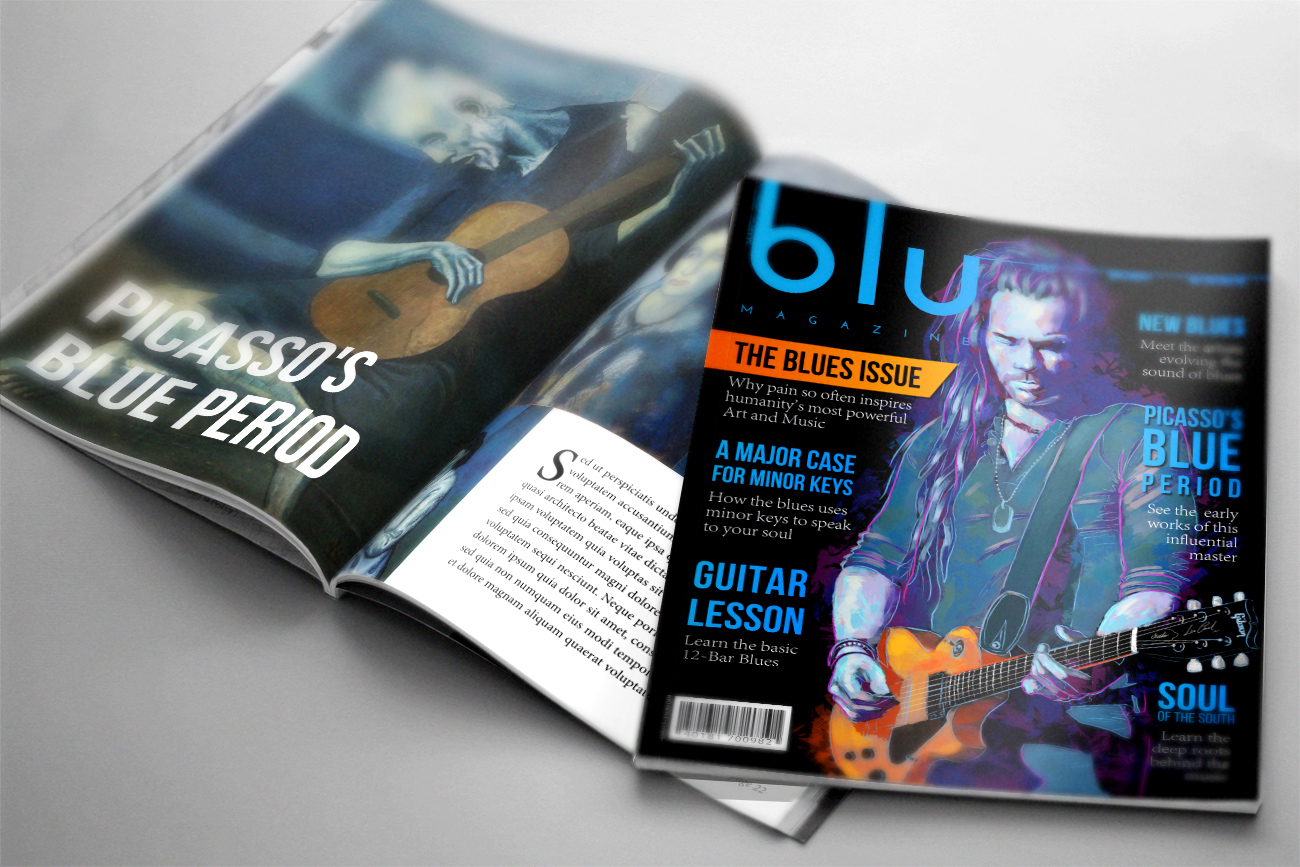
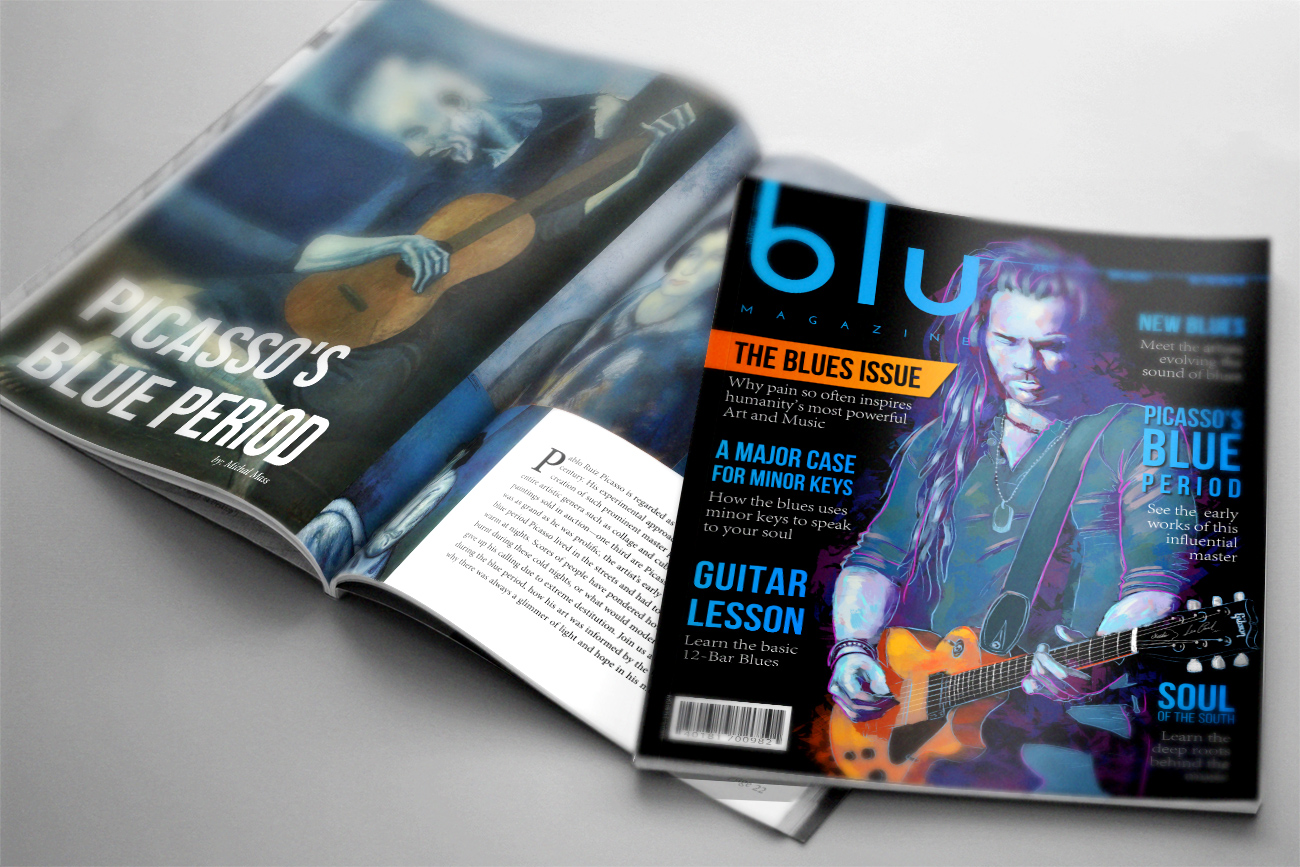
Overall design section restructuring

Changed region(s): [[0.0, 0.0623, 0.5846, 0.6851], [0.3385, 0.5294, 0.5231, 0.8097]]

diff --git a/blumag.html b/blumag.html
@@ -77,29 +77,27 @@
               <p><b>Project:</b> Blu Magazine <br> <b>Role:</b> Graphic Design, Illustration <br> <b>Tools</b>: Pencil & Paper, Procreate, Photoshop, Affinity Designer</p>
 
               <div class="row">
-                <img src="images/matt_images/Design/bluMain4.jpg" class= "center" alt="Blu Magazine Mockup" width="auto">
+                <img src="images/matt_images/Design/bluMain.jpg" class= "center" alt="Blu Magazine Mockup" width="auto">
               </div>
 
               <div class="row">
                 <p>Blu Magazine is a self-guided project intended to showcase my current skillset as a graphic artist and designer. Its aim is to demonstrate solid branding, typography, layout, color theory, illustration, and photo manipulation techniques within a cohesive design. "Blu" is a monthly publication that explores anything and everything related to the color blue.</p>
 							</div>
 
-
-
               <div class="row">
 								<img src="images/matt_images/Design/bluFonts.jpg" class= "center" alt="Blu Magazine Font Exploration" width="auto">
 							</div>
 
-                <br><p>The target audience for this publication was young men and women between the ages of 25-35. It was important that the font chosen for the logotype reflected the clean modern feel I had in mind for the magazine's branding. In this case, I decided on the sans-serif "Aqua Grotesque" for its crisp and elegant rounded forms.</p><br>
+                <br><p>The target audience for this publication was young men and women between the ages of 25-35. It was important that the font chosen for the logotype reflected the clean modern feel I had in mind for the magazine's branding. In this case, I decided on the sans-serif "Aqua Grotesque" for its crisp and elegant rounded forms.</p>
 
               <div class="row">
   							<img src="images/matt_images/Design/bluLogoLines.png" class= "center" alt="Blu Magazine Logotype Exploration" width="auto">
   						</div>
 
-              <br><p>After some experimentation with the logotype and its placement, I decided to run the edges of the letterforms off of the page. This opens up the composition and keeps the cover designs from feeling too boxed in.</p>
+              <br><p>After some experimentation with the logotype and its placement, I ultimately chose to go with a clean, bold treatment that is easily recognizable and doesn't overly compete with the cover imagery. I decided to run the edges of the letterforms off of the page. This opens up the composition and keeps the cover designs from feeling too boxed in.</p>
 
               <div class="row">
-								<img src="images/matt_images/Design/bluBrainstorm.jpg" class= "center" alt="Blu Magazine Topic Exploration" width="auto">
+								<img src="images/matt_images/Design/bluBrainstorm2.jpg" class= "center" alt="Blu Magazine Topic Exploration" width="auto">
 							</div>
 
                 <br><p>Early in the design process I sketched out a map of associations that came to mind when thinking of the project's core concept. Brainstorming in this way helps to get the creative juices flowing and spark new ideas in a rapid manner. Through this excersize, I came up with the three core themes for each issue.</p><br>
@@ -108,35 +106,42 @@
 								<img src="images/matt_images/Design/bluMagScreenMockup3.jpg" class= "center" alt="Blu Magazine Cover Iterations" width="auto">
 							</div>
 
-                <br><p>Many versions were created for each cover and spread design. One of the greatest tools in any designer's arsenal is the power of iteration.</p>
+                <br><p>Many versions were created for each cover and spread design. One of the greatest tools in any designer's arsenal is the power of iteration. While each cover design is unique and related to that month's particular theme, there are certain design elements that remain consistent across each to establish a cohesive brand. For example, each issue's theme tab, the logotype placement, and the article headline font to name a few.</p>
 
-                <div class="row">
-  								<div class="4u 12u$(mobile)">
-  									<article class="item" title="Music Issue">
-  										<a href="./blumusic.html" class="image fit">
-                        <img src="images/matt_images/Design/bluMusicCoverSm.jpg" alt="" /></a>
-  									</article>
-
-  								</div>
-  								<div class="4u 12u$(mobile)">
-  									<article class="item" title="Psychology Issue">
-  										<a href="./bluPsych.html" class="image fit">
-                        <img src="images/matt_images/Design/bluPsychCoverSm.jpg" alt="" /></a>
-  									</article>
-
-  								</div>
-  								<div class="4u$ 12u$(mobile)">
-                    <article class="item" title="Ocean Issue">
-                      <a href="./bluocean.html" class="image fit">
-                        <img src="images/matt_images/Design/bluOceanCoverSm.jpg" alt=""/></a>
-                    </article>
-
-  								</div>
-  							</div>
-                <br><p>Explore the covers above to see an expanded case study of each issue.</p>
 						</div>
 
 					</section>
+
+          <section id="portfolio" class="two">
+						<div class="container">
+              <div class="row">
+                <div class="4u 12u$(mobile)">
+                  <article class="item" title="Music Issue">
+                    <a href="./blumusic.html" class="image fit">
+                      <img src="images/matt_images/Design/bluMusicCoverSm.jpg" alt="" /></a>
+                  </article>
+                </div>
+
+                <div class="4u 12u$(mobile)">
+                  <article class="item" title="Psychology Issue">
+                    <a href="./bluPsych.html" class="image fit">
+                      <img src="images/matt_images/Design/bluPsychCoverSm.jpg" alt="" /></a>
+                  </article>
+                </div>
+
+                <div class="4u$ 12u$(mobile)">
+                  <article class="item" title="Ocean Issue">
+                    <a href="./bluocean.html" class="image fit">
+                      <img src="images/matt_images/Design/bluOceanCoverSm.jpg" alt=""/></a>
+                  </article>
+                </div>
+              </div>
+
+              <br><p>Explore the covers above to see an expanded case study of each issue.</p>
+
+            </div>
+
+          </section>
 
 
 

diff --git a/tankwallet.html b/tankwallet.html
@@ -74,14 +74,14 @@
 									<br/><br/>
 							</div>
 
-              <p><b>Client:</b> TankWallet - Palo Alto, CA <br> <b>Project:</b> Price Cap Plan Marketing Materials <br>Role: Sales, Marketing, Graphic Design, Animation/Motion Graphics, Illustration <br> <b>Tools</b>: Pencil & Paper, Photoshop, Illustrator, After Effects</p>
+              <p><b>Client:</b> TankWallet - Palo Alto, CA <br> <b>Project:</b> Price Cap Plan Marketing Materials <br>Role: Graphic Design, Animation/Motion Graphics, Illustration <br> <b>Tools</b>: Pencil & Paper, Photoshop, Illustrator, After Effects</p>
 
 							<div class="row">
-							<img src="images/matt_images/Design/tankWalletApp.png" class= "center" alt="TankWallet App" width="auto">
+								<img src="images/matt_images/Design/tankWalletApp.png" class= "center" alt="TankWallet App" width="auto">
 							</div>
 
 							<div class="row">
-								<p>Tankwallet is a tech company in Palo Alto, CA that provides fuel cost saving solutions to both large scale companies and indivdual consumers. I was responsible for graphic design and animation materials created to educate consumers on the company's various products.</p>
+								<p>Tankwallet is a tech company in Palo Alto, CA that provides fuel cost saving solutions to both large scale companies and indivdual consumers. I was responsible for graphic design and animated marketing materials created to educate consumers on the company's various products.</p>
 							</div>
 
               <div>
@@ -109,16 +109,16 @@
               </div>
 
 							<div>
-							<img src="images/matt_images/Design/emmaAndChuckOutline.jpg" class= "center" alt="Chuck and Emma Vector Builds" width="auto">
-              	<p>Building up the characters from concept sketches to vector assets for the animation.</p>
+							<img src="images/matt_images/Design/emmaAndChuckOutline2.jpg" class= "center" alt="Chuck and Emma Vector Builds" width="auto">
+              	<br><p>Each animation involves a process of concept sketching, storyboarding, scripting, voice acting, vector creation, and animating. Here we see a split view of the characters being built as vector assets to be animated in After Effects.</p>
 							</div>
 
               <div>
               <img src="images/matt_images/Design/chuckSketches.png" class= "center" alt="Early Character Sketches" width="auto">
-              	<p>Early sketches for "Chuck" our iconic jolly truck driver. We wanted Chuck to be an approachable and friendly character so we decided to go with a less realistic and more cartoony look.</p>
+              	<p>Early sketches for "Chuck" our iconic jolly truck driver. We wanted Chuck to be an approachable and friendly character so we decided to go with a less realistic and more cartoony visual style.</p>
 
               <img src="images/matt_images/Design/priceCapSB.png" class= "center" alt="Early Storyboard" width="auto">
-              	<p>Early Storyboard for the "Price Cap Plan" explanation video.</p>
+              	<p>Early Storyboards for the "Price Cap Plan" explanation video.</p>
 
               <img src="images/matt_images/Design/priceCapAssets.jpg" class= "center" alt="Vector Assets" width="auto">
               	<p>A small sample of the vector assets made during the creation of the animations.</p>
@@ -127,11 +127,11 @@
                 <p>In addition to the animations, I also created digital marketing materials for the company's products. Below are a few examples created to be sent as emails to prospective clients demonstrating how TankWallet's Price Cap Plans performs over time using data obtained from the U.S. Department of Energy.</p>
 
 							<div class="row">
-							<img src="images/matt_images/Design/priceCap4x4.png" class= "center" alt="Price Cap Performance Marketing Materials" width="auto">
+								<img src="images/matt_images/Design/priceCap4x4.png" class= "center" alt="Price Cap Performance Marketing Materials" width="auto">
 							</div>
 
 							<div class="row">
-								<p>My time at TankWallet was an incredibly challenging and rewarding experience. Working in the fast-paced environment of a startup provided many challenging opportunies to adapt and grow as an artist and designer. During my time there I was able to write, storyboard, illustrate, animate, and edit several videos for the company.</p>
+								<p>My time at TankWallet proved to be a challenging and rewarding experience. Working in the fast-paced environment of a tech startup provided many opportunies to adapt and grow as both an artist and as a designer. Collaborating with the team of software engineers and product designers, I was able to write, storyboard, illustrate, and animate several videos for the team that helped to better explain the company's products to prospective clients.</p>
 							</div>
 
 						</div>

diff --git a/bluPsych.html b/bluPsych.html
@@ -83,53 +83,57 @@
               <br><p>The theme for this month's issue of Blu was "the psychology of color."</p>
 
               <div class="row">
-              <img src="images/matt_images/Design/MagazineMockupBluColor.jpg" class= "center" alt="Blu Magazine Colour Mockup" width="auto">
+                <img src="images/matt_images/Design/MagazineMockupBluColor.jpg" class= "center" alt="Blu Magazine Colour Mockup" width="auto">
               </div>
 
-                <br><p>In keeping with the theme of this issue, I wanted its cover to be an absolute explosion of color. I incorporated photography and vector assets into a cohesive design while experimenting with color harmony and abstract shapes as a way to reflect the intuitive feelings that colors invoke within us.</p>
+                <br><p>In keeping with the theme of this issue, I wanted its cover to be an absolute explosion of color. I incorporated photography and vector assets into a cohesive design while experimenting with color harmony and abstract shapes as a way to reflect the intuitive feelings that colors invoke within us. I also added the circular "special" sticker as a device to grab potential buyers' attention as well as to introduce more variety to the overall design.</p>
 
 							<div class="row">
-								<img src="images/matt_images/Design/bluColourSpread1.png" class= "center" alt="Blu Magazine Colour Spread 1" width="auto">
+								<img src="images/matt_images/Design/bluColourSpread_1.jpg" class= "center" alt="Blu Magazine Colour Spread 1" width="auto">
 							</div>
 
               <br><p>The article on this two-page layout is about how the power of color can transform and heal us. I decided to employ photo manipulation techniques to illustrate this concept by breaking appart a desaturated portrait of a man with little to no emotional expression on his face to reveal the vibrant colors hidden within.</p>
 
 							<div class="row">
-								<img src="images/matt_images/Design/bluColourSpread2.png" class= "center" alt="Blu Magazine Colour Spread 2" width="auto">
+								<img src="images/matt_images/Design/bluWinter.jpg" class= "center" alt="Blu Magazine Colour Spread 2" width="auto">
 							</div>
 
+              <br><p></p>
 
+						</div>
+
+					</section>
+
+          <section id="portfolio" class="two">
+						<div class="container">
               <div class="row">
                 <div class="4u 12u$(mobile)">
                   <article class="item" title="Music Issue">
                     <a href="./blumusic.html" class="image fit">
                       <img src="images/matt_images/Design/bluMusicCoverSm.jpg" alt="" /></a>
                   </article>
-
                 </div>
+
                 <div class="4u 12u$(mobile)">
                   <article class="item" title="Psychology Issue">
                     <a href="./bluPsych.html" class="image fit">
                       <img src="images/matt_images/Design/bluPsychCoverSm.jpg" alt="" /></a>
                   </article>
-
                 </div>
+
                 <div class="4u$ 12u$(mobile)">
                   <article class="item" title="Ocean Issue">
                     <a href="./bluocean.html" class="image fit">
                       <img src="images/matt_images/Design/bluOceanCoverSm.jpg" alt=""/></a>
                   </article>
-
                 </div>
               </div>
 
               <br><p>Explore the covers above to see an expanded case study of each issue.</p>
 
-						</div>
+            </div>
 
-					</section>
-
-
+          </section>
 
 
 	<!-- .modal-profile -->

diff --git a/bluocean.html b/bluocean.html
@@ -86,7 +86,7 @@
               <img src="images/matt_images/Design/bluOceanSpread.jpg" class= "center" alt="Blu Magazine Ocean Mockup" width="auto">
               </div>
 
-              <br><p>Since one of the main articles of this issue is about deep sea exploration, I wanted to create the feeling of wonder and awe that you get from novels like 20,000 Leagues Under the Sea, by Jules Verne. The shape of a deep sea diver was done in vectors to use as a mask for a closeup photo of a jellyfish, while the background is a zoomed in view of the tentacles of an octopus. </p>
+              <br><p>With this cover I aimed to create the feeling of wonder and awe that you get from films and books about deep sea exploration. I wanted to emphasize the difference in scale between the figure in the foreground and the mysterious creature in the dark. The shape of the diver was done in vectors to use as a mask for a closeup photo of a jellyfish, while the background is an enlarged photo of an octopus. I used a soft yellow gradient in the center and a dark vignette around the edges of the composition to create the illusion of light. The feeling of light eminating from the diver's flashlight is further reinforced with a gradient effect applied to the surrounding article headlines.</p>
 
               <div class="row">
 								<img src="images/matt_images/Design/bluOceanSpread2.png" class= "center" alt="Blu Magazine Ocean Spread 1" width="auto">
@@ -98,38 +98,42 @@
 								<img src="images/matt_images/Design/bluOceanSpread1.png" class= "center" alt="Blu Magazine Ocean Spread 1" width="auto">
 							</div>
 
-              <br><p>For this layout I wanted to emphasize the scope and severity of the problem discussed in the article by incorporating a large photograph of plastic waste on the shore spanning the entire layout.</p><br>
+              <br><p>For this layout I wanted to emphasize the scope and severity of the problem discussed in the article by incorporating a large photograph of plastic waste on the shore spanning the entire layout.</p>
 
+						</div>
+
+					</section>
+
+          <section id="portfolio" class="two">
+						<div class="container">
               <div class="row">
                 <div class="4u 12u$(mobile)">
                   <article class="item" title="Music Issue">
                     <a href="./blumusic.html" class="image fit">
                       <img src="images/matt_images/Design/bluMusicCoverSm.jpg" alt="" /></a>
                   </article>
-
                 </div>
+
                 <div class="4u 12u$(mobile)">
                   <article class="item" title="Psychology Issue">
                     <a href="./bluPsych.html" class="image fit">
                       <img src="images/matt_images/Design/bluPsychCoverSm.jpg" alt="" /></a>
                   </article>
-
                 </div>
+
                 <div class="4u$ 12u$(mobile)">
                   <article class="item" title="Ocean Issue">
                     <a href="./bluocean.html" class="image fit">
                       <img src="images/matt_images/Design/bluOceanCoverSm.jpg" alt=""/></a>
                   </article>
-
                 </div>
               </div>
 
-              <br><p>Explore the covers below to see an expanded case study of each issue.</p>
+              <br><p>Explore the covers above to see an expanded case study of each issue.</p>
 
-						</div>
+            </div>
 
-					</section>
-
+          </section>
 
 
 

diff --git a/blumusic.html b/blumusic.html
@@ -95,48 +95,54 @@
               <br><p>Cover illusrtation painted digitally with Procreate on an iPad Pro. The brushstrokes were left intentionally loose and expressive for a "painterly" feel.</p>
 
 							<div class="row">
-								<img src="images/matt_images/Design/bluMusicSpread1.png" class= "center" alt="Blu Magazine Music Spread 1" width="auto">
+								<img src="images/matt_images/Design/bluPicassoSpread.jpg" class= "center" alt="Blu Magazine Music Spread 1" width="auto">
 							</div>
 
-
+              <br><p>For this spread design, the emphasis is placed on Picasso's paintings. I decided to do a photo collage of his work that stretches across both pages in combination with a bold typeface to draw the reader's attention to the story.</p>
 
 							<div class="row">
 								<img src="images/matt_images/Design/bluMusicSpread3.png" class= "center" alt="Blu Magazine Music Spread 3" width="auto">
 							</div>
 
-              <p>The visual problems presented by the blu magazine project required a diverse range of design solutions including illustration, photo manipulation, grid-based layout design and typography. One of the key lessons learned in the process of working on this project was the importance of establishing visual heirarchies through the use of contrast and scale to inform your typographic layouts, especially in editorial design. Explore the other issues below to see more!</p><br>
+              <p>This design utilizes a three column text layout, commonly seen in editorial interviews.</p>
 
+              <p>The visual problems presented by the blu magazine project required a diverse range of design solutions including illustration, photo manipulation, grid-based layout design and typography. One of the key lessons learned in the process of working on this project was the importance of establishing visual heirarchies through the use of contrast and scale to inform your typographic layouts, especially in editorial design. Explore the other issues below to see more!</p>
+
+            </div>
+
+					</section>
+
+
+          <section id="portfolio" class="two">
+						<div class="container">
               <div class="row">
                 <div class="4u 12u$(mobile)">
                   <article class="item" title="Music Issue">
                     <a href="./blumusic.html" class="image fit">
                       <img src="images/matt_images/Design/bluMusicCoverSm.jpg" alt="" /></a>
                   </article>
-
                 </div>
+
                 <div class="4u 12u$(mobile)">
                   <article class="item" title="Psychology Issue">
                     <a href="./bluPsych.html" class="image fit">
                       <img src="images/matt_images/Design/bluPsychCoverSm.jpg" alt="" /></a>
                   </article>
-
                 </div>
+
                 <div class="4u$ 12u$(mobile)">
                   <article class="item" title="Ocean Issue">
                     <a href="./bluocean.html" class="image fit">
                       <img src="images/matt_images/Design/bluOceanCoverSm.jpg" alt=""/></a>
                   </article>
-
                 </div>
               </div>
 
               <br><p>Explore the covers above to see an expanded case study of each issue.</p>
 
-						</div>
+            </div>
 
-					</section>
-
-
+          </section>
 
 
 	<!-- .modal-profile -->

diff --git a/argubotacademy.html b/argubotacademy.html
@@ -80,7 +80,7 @@
                 <img src="images/matt_images/Design/argubotMockup2.jpg" class= "center" alt="Robot Workshop Vector Art" width="auto">
               </div>
 
-								<br><p>Mars Generation One: Argubot Academy is a tablet-based educational game targeted at middle-school aged kids developed by Glasslab Games. In the game, players build and fight robots (known as argubots) against other robot opponents. Players are taught to equip their argubots with logical, well-reasoned arguments to use as "attacks" in a battle of wits with their opponents. I worked as an environment designer on the project. I was responsible for delivering several backgrounds and secondary robot designs set on a sci-fi base established on Mars.</p>
+								<br><p>Mars Generation One: Argubot Academy is a tablet-based educational game targeted at middle-school aged kids developed by Glasslab Games. In the game, players build and fight robots (known as argubots) against other robot opponents. Players are taught to equip their argubots with logical, well-reasoned arguments to use as "attacks" in a battle of wits with their opponents. I worked as an environment artist on the project. I was responsible for delivering several backgrounds and secondary robot designs set on a sci-fi base established on Mars.</p>
 
 							<div class="row">
                 <img src="images/matt_images/Design/argubotSketches.png" class= "center" alt="Argubot Concept Sketches" width="auto">
@@ -106,11 +106,17 @@
 
                 <p>Final "Atrium" envirnoment.</p>
 
+							<div class="row">
+	              <img src="images/matt_images/Design/atriumOutline.png" class= "center" alt="Atrium Vector Art" width="auto">
+	            </div>
+
+							<p>The final environment art is made up of thousands of individual vector shapes.</p>
+
               <div class="row">
                 <img src="images/matt_images/Design/env_kitchen_MBK_final.jpg" class= "center" alt="Kitchen Vector Art" width="auto">
               </div>
 
-              <br><p>Here we see the kitchen environment with it's many robot helpers taking care of the day-to-day operations of the base such as food growing, harvesting, preparation, and general cleaning. I designed these secondary kitchen bots to fit into the established visual style of the project. The common element between them being thier camera lens like eye. I chose soft rounded forms for the bodies to empasize their friendly and approachable personalities.</p>
+              <br><p>Here we see the kitchen environment with it's many robot helpers taking care of the day-to-day operations of the base such as food growing, harvesting, preparation, and general cleaning. I designed these secondary kitchen bots to fit into the established visual style of the project. I chose soft rounded forms for the bodies to empasize their friendly and approachable personalities.</p>
 
               <div class="row">
                 <img src="images/matt_images/Design/env_workshop_MBK_final.jpg" class= "center" alt="Robot Workshop Vector Art" width="auto">

diff --git a/about.html b/about.html
@@ -69,7 +69,7 @@
 							</div>
               <br/>
 							<span><h2 style="color:SkyBlue;">Hi, I'm Matt.</h2>
-							<b style="color:SkyBlue;">Nice to meet you!</b> <br><br>I'm a multi-disciplinary artist, snowboarder, bibliophile, animation lover and proud pixelpusher. Working in the sweet spot between function and elegance to save the world from bad design. I'm fueled by craft beer, hip-hop and tortilla chips.<br><br>I attended the University of North Carolina at Asheville, where I received my Bachelor of Arts in Multimedia Arts and Sciences. I’ve always been fascinated with the creative process, in whatever form it takes; my work spans across Traditional and Digital Illustration, Animation, Graphic Design, Woodworking, and Pyrography<br/><br/>
+							<b style="color:SkyBlue;">Nice to meet you!</b> <br><br>I'm a multi-disciplinary artist, snowboarder, bibliophile, animation lover and proud pixelpusher. Working in the sweet spot between elegance and function to save the world from bad design. I'm fueled by craft beer, hip-hop and tortilla chips.<br><br>I attended the University of North Carolina at Asheville, where I received my Bachelor of Arts in Multimedia Arts and Sciences. I’ve always been fascinated with the creative process, in whatever form it takes; my work spans across Traditional and Digital Illustration, Animation, Graphic Design, Woodworking, and Pyrography<br/><br/>
 
 							Proficient in Adobe Photoshop, Illustrator, After Effects, Affinity Designer, Publisher, Procreate, and good old-fashioned pencil and paper.<br><br>
 
